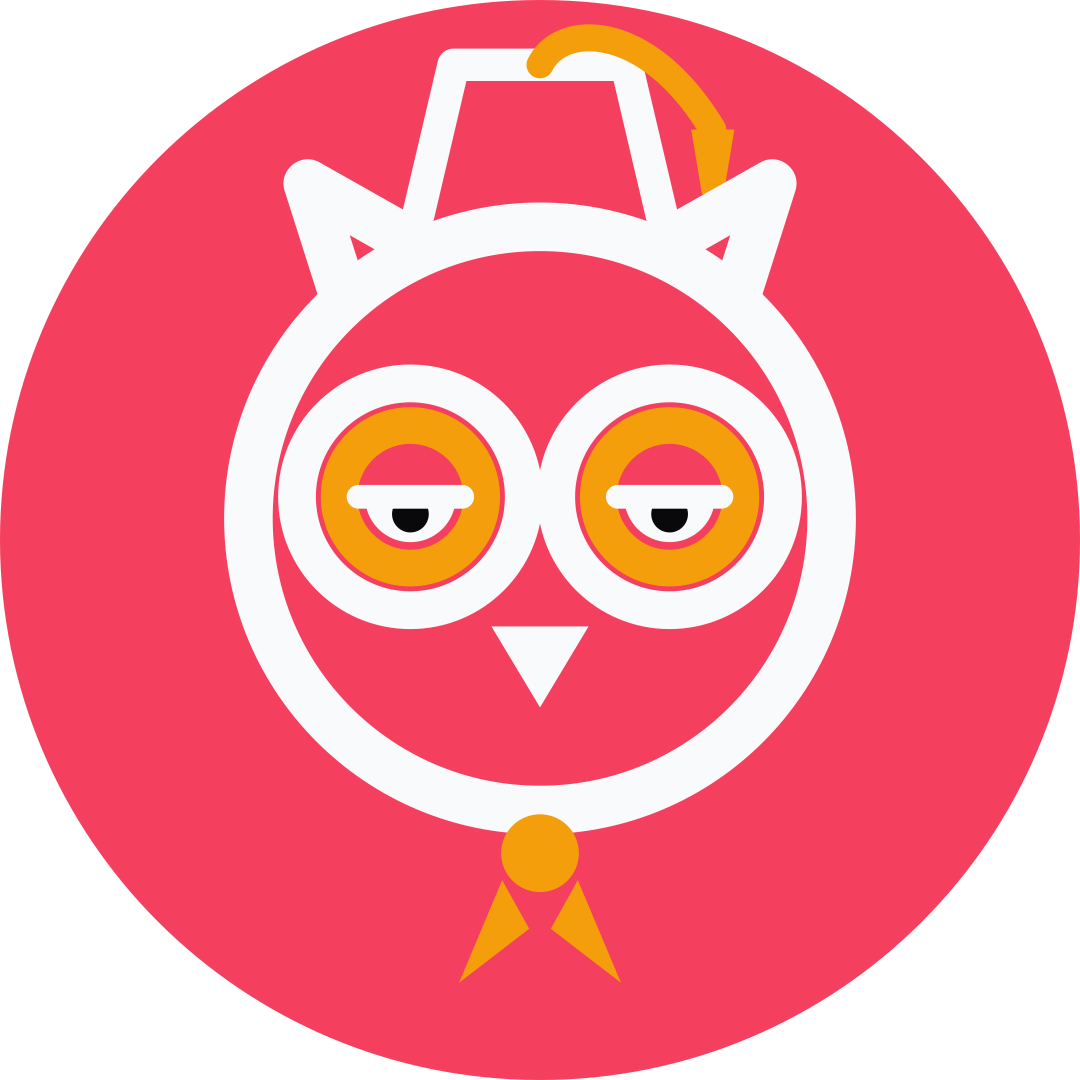
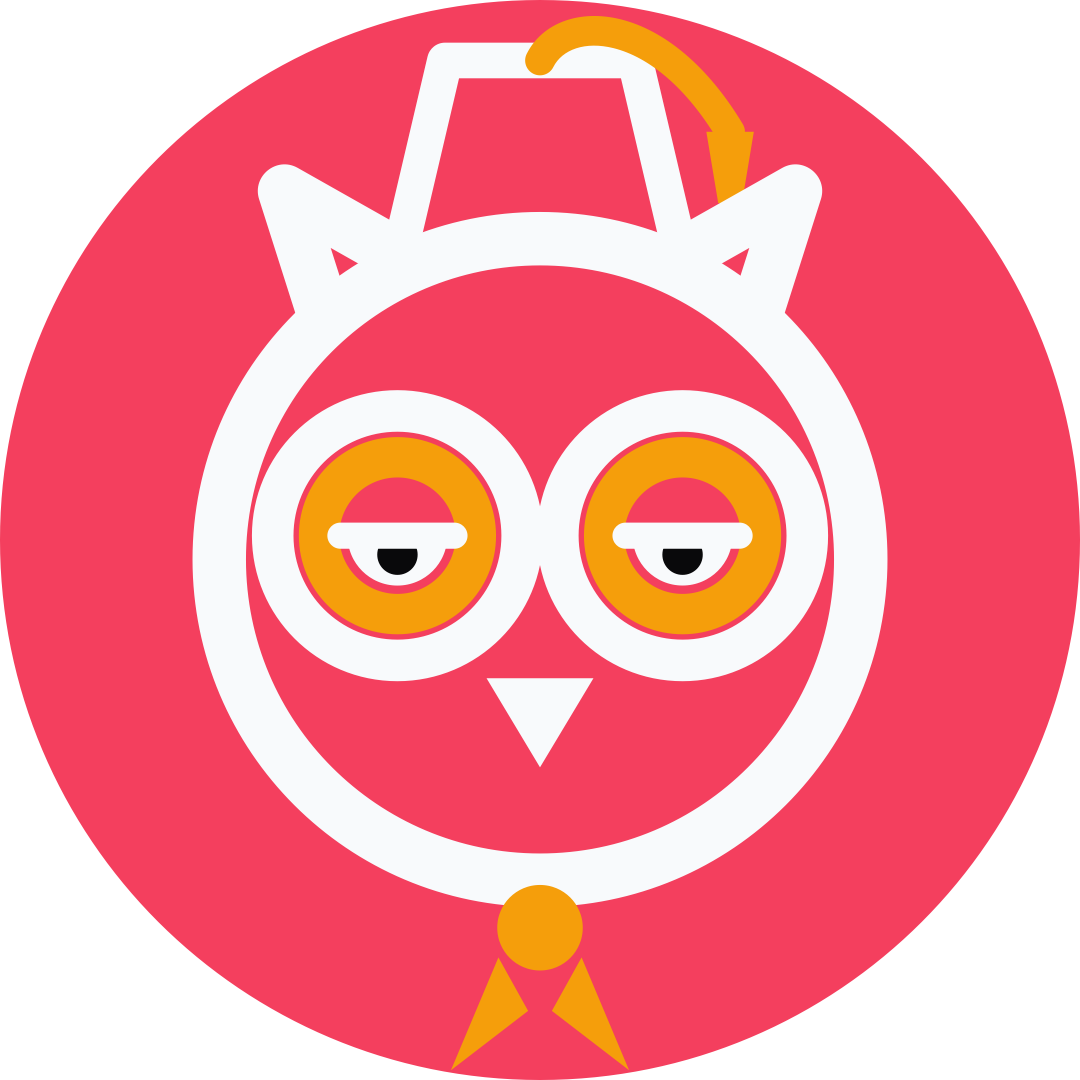
style: correctly center scaled owl in bounds

diff --git a/src/components/Owl.tsx b/src/components/Owl.tsx
@@ -27,7 +27,7 @@ export function Owl({ size = 40, variant = 'avatar', color, className = '', titl
   return (
     <svg width={size} height={size} viewBox="0 0 100 100" className={className} role="img" aria-label={title}>
       {variant === 'avatar' && <circle cx="50" cy="50" r="50" fill={GRANA} />}
-      <g strokeLinejoin="round" strokeLinecap="round" style={{ transformOrigin: 'center', transform: 'scale(1.18)' }}>
+      <g strokeLinejoin="round" strokeLinecap="round" transform="translate(-5, -1) scale(1.1)">
         {/* HATS - placed behind ear tufts for a better 3D look or above head */}
         {hat === 'fez' && (
           <g>
